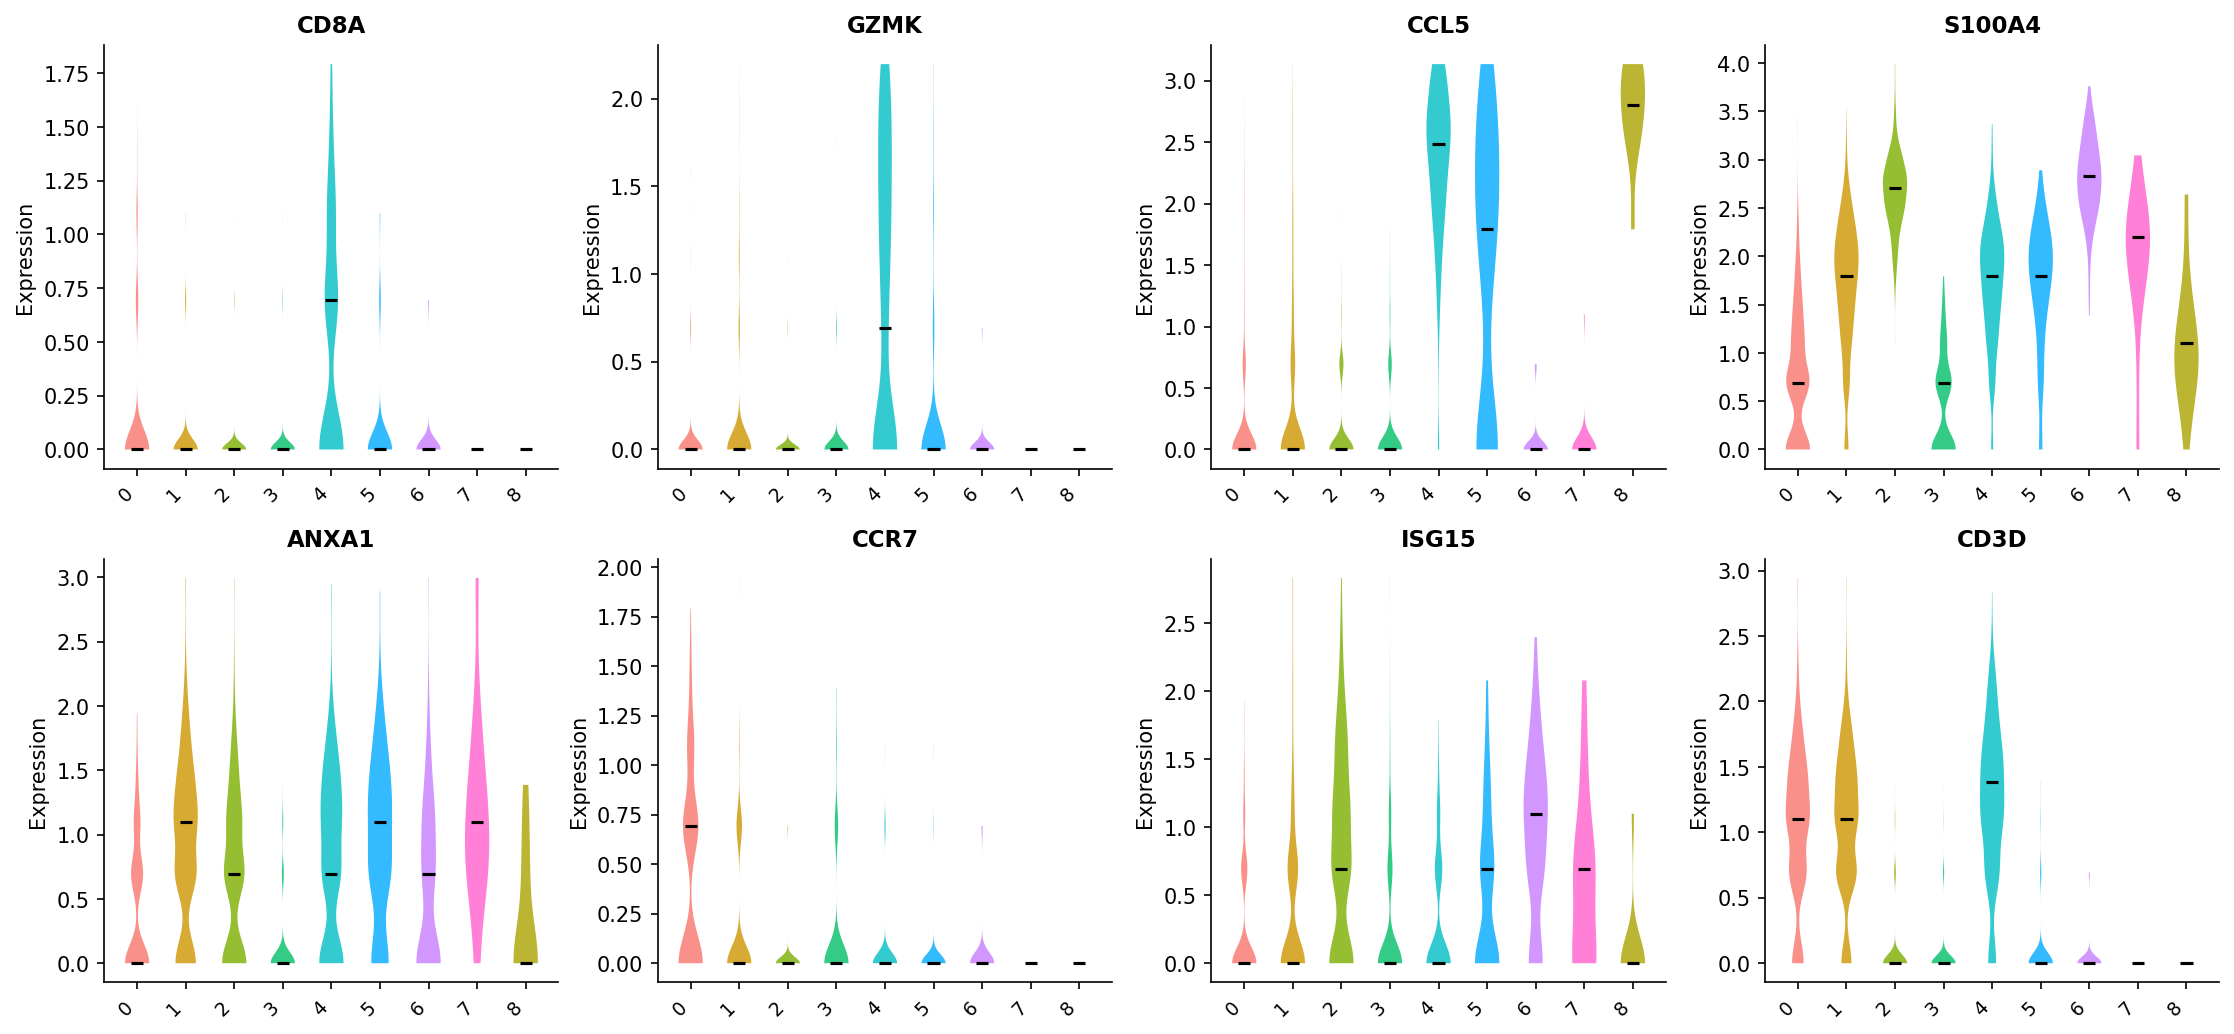
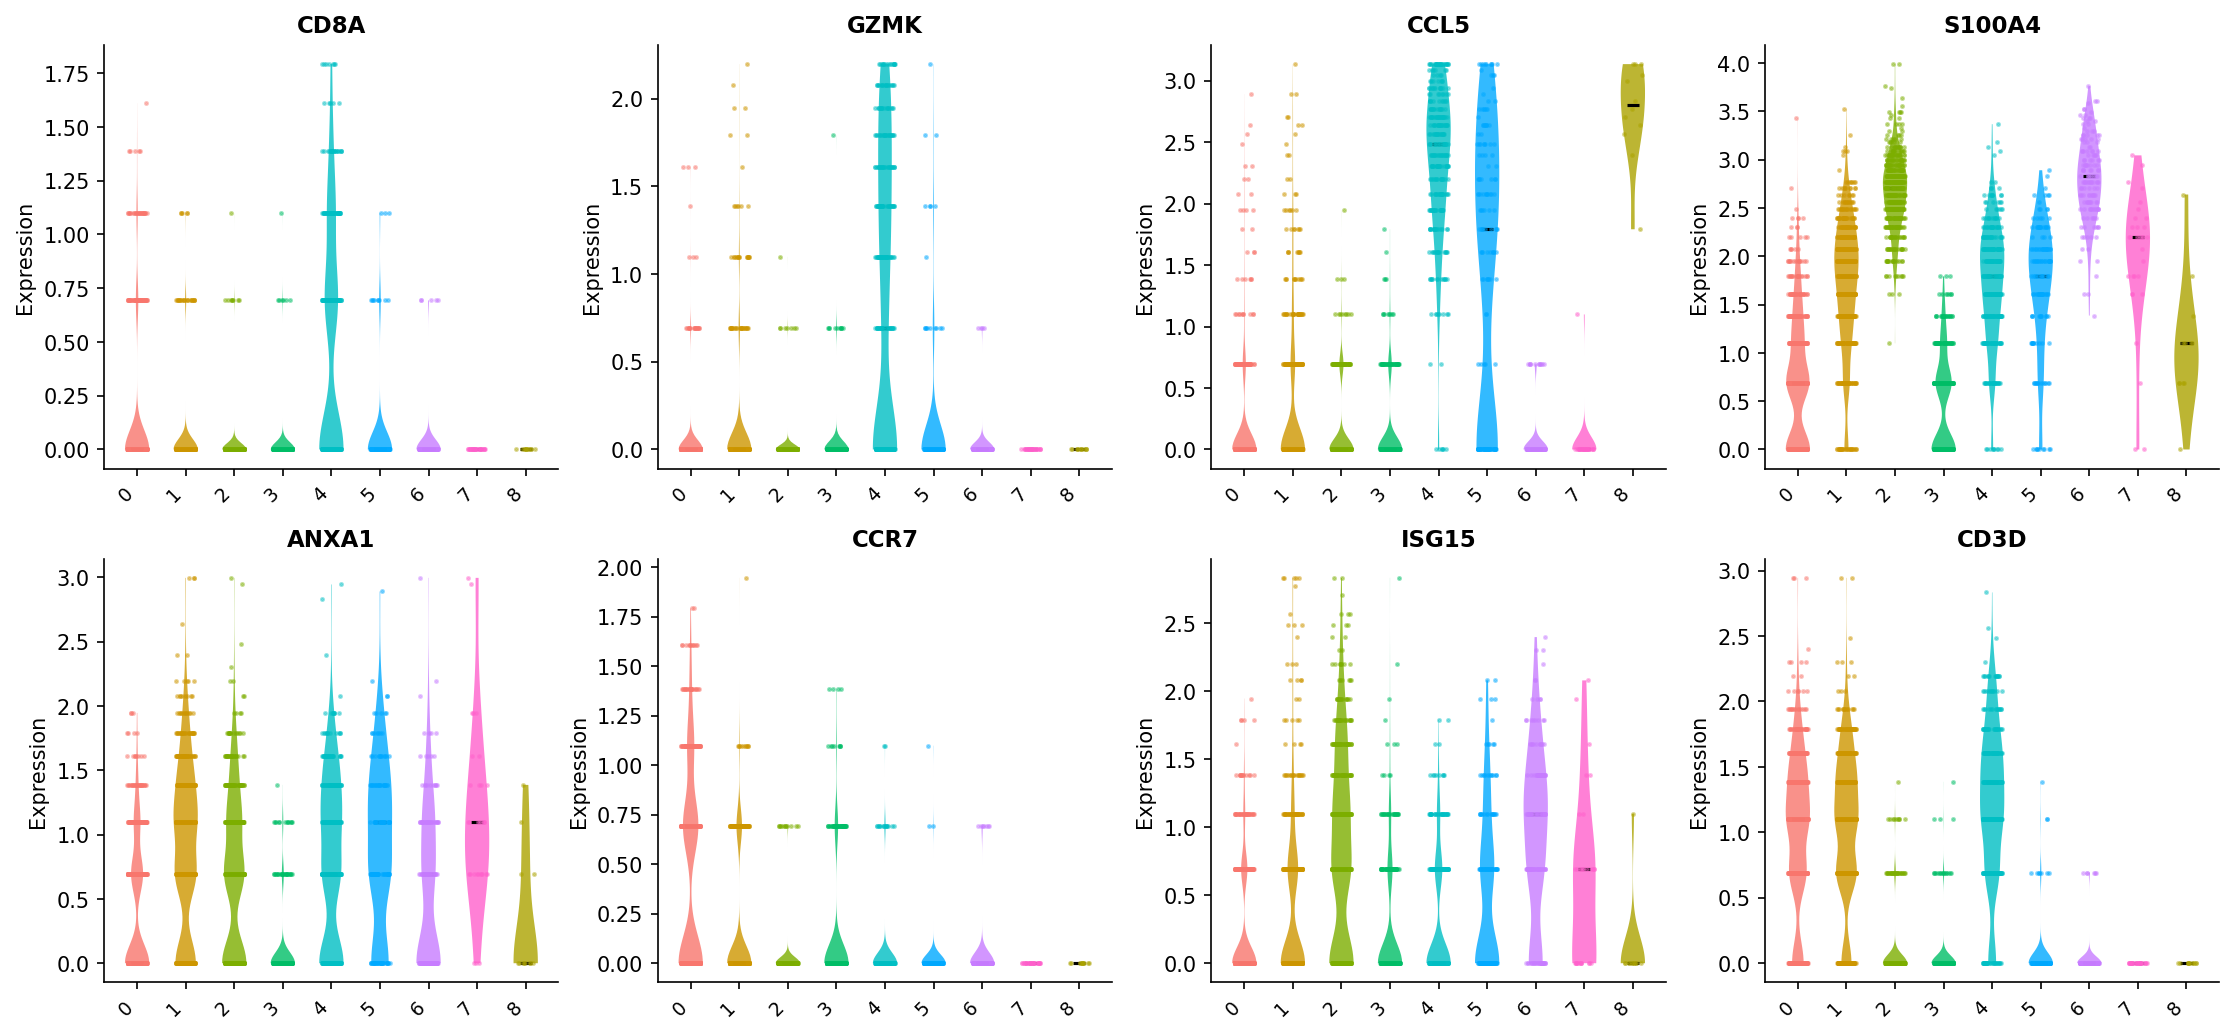
docs: overlay jittered cells on SCTransform violins to match R VlnPlot
The Step 5 violins were bare while R's VlnPlot uses pt.size = 0.2, making the
two look unrelated. Regenerate 05_sct_violins.png with pt_size so cells are
jittered over each violin (same SCT data layer as R), and add a caption noting
the x-axes differ in length (9 vs 12 clusters) so readers compare per-gene
shapes rather than column positions.

diff --git a/tutorials/generate_sctransform_plots.py b/tutorials/generate_sctransform_plots.py
@@ -59,9 +59,11 @@ def main(data_dir=None):
                        ncol=3, min_cutoff="q05", max_cutoff="q95", pt_size=1.2,
                        figsize=(13, 7)), "04_sct_featureplots_2.png")
 
-    # 5. Violin plots of the eight vignette markers (by cluster)
+    # 5. Violin plots of the eight vignette markers (by cluster).
+    #    pt_size>0 overlays jittered cells to match R's VlnPlot(pt.size = 0.2)
+    #    speckled look (matplotlib sizes points by area, so the value differs).
     _save(vln_plot(sct, VLN_MARKERS, group_by="sct_clusters", assay="SCT",
-                   ncol=4, figsize=(15, 7)), "05_sct_violins.png")
+                   ncol=4, pt_size=2.0, figsize=(15, 7)), "05_sct_violins.png")
 
     # 6. SCTransform vs standard log-normalization, side by side
     fig, axes = plt.subplots(1, 2, figsize=(15, 6.5))

diff --git a/tutorials/sctransform_vignette.md b/tutorials/sctransform_vignette.md
@@ -194,7 +194,9 @@ VlnPlot(pbmc, features = c("CD8A","GZMK","CCL5","S100A4",
 ```python
 from shanuz.plotting import vln_plot
 vln_plot(pbmc, ["CD8A","GZMK","CCL5","S100A4","ANXA1","CCR7","ISG15","CD3D"],
-         group_by="sct_clusters", assay="SCT", ncol=4)
+         group_by="sct_clusters", assay="SCT", ncol=4, pt_size=2.0)
+# pt_size overlays jittered cells, matching R's VlnPlot(pt.size = 0.2);
+# matplotlib sizes points by area, so the numeric value differs.
 ```
 
 </td></tr>
@@ -203,6 +205,16 @@ vln_plot(pbmc, ["CD8A","GZMK","CCL5","S100A4","ANXA1","CCR7","ISG15","CD3D"],
 <td><img src="figures_sctransform/05_sct_violins.png" width="420"/></td>
 </tr>
 </table>
+
+> Both panels plot the SCT `data` layer (`log1p` of corrected counts) — R's
+> `VlnPlot` default for an SCT assay — with cells jittered over each violin. The
+> distributions track gene-for-gene: `CD8A`/`GZMK` spike on the cytotoxic CD8
+> cluster, `CCL5` across the CD8/NK end, `CD3D` over all T clusters, `CCR7` low
+> and naive-restricted. The **x-axes differ in length** — Shanuz resolves **9
+> clusters (0–8)** here versus the vignette's **12 (0–11)** — so a given cluster
+> number is *not* the same population across the two plots; compare the
+> per-gene shapes, not column positions. (See the accuracy note below on why the
+> exact cluster count differs.)
 
 ---
 